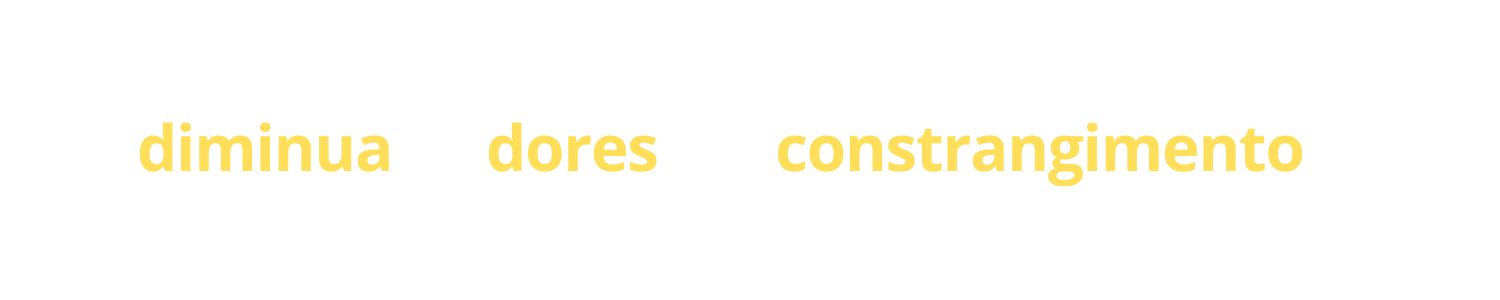
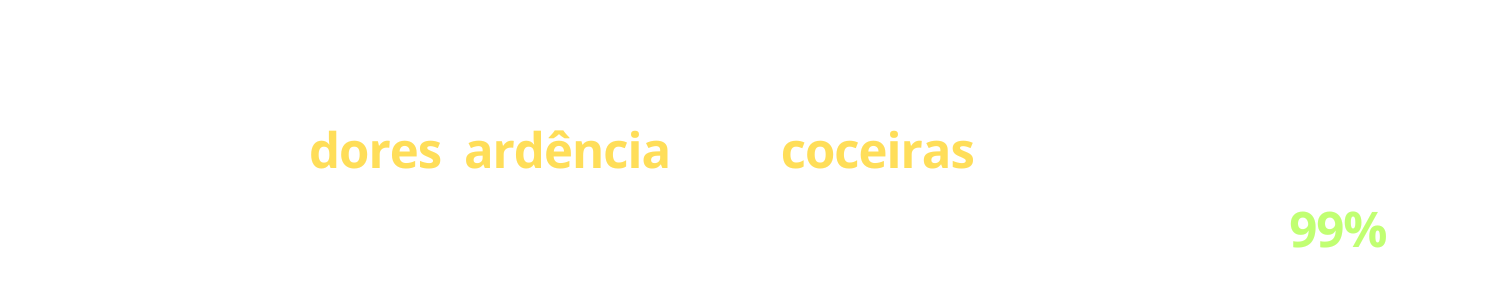
headline

Changed region(s): [[0.5213, 0.42, 0.8893, 0.63], [0.092, 0.39, 0.46, 0.57], [0.8587, 0.69, 0.9507, 0.84]]

diff --git a/src/app/home/home.js b/src/app/home/home.js
@@ -15,7 +15,7 @@ import bannerMeio3 from "@/images/meio3.png";
 import bannerMeio4 from "@/images/meio4.png";
 import garantia from "@/images/garantia-2.png";
 import logoWhite from "@/images/logo.png";
-import headline from "@/images/headline7.png";
+import headline from "@/images/headline2.png";
 import GoogleTagManager from "../components/GoogleTagManager.js";
 import Checkout from "../components/checkout.js";
 
@@ -97,17 +97,17 @@ export default function Home() {
         <div className="bg-primary py-1 items-start"></div>
         <div className="mx-auto max-w-4xl bg-white rounded-xl overflow-hidden items-start justify-center items-center content-center">
           <section className="bg-primary pt-5 pb-10 mask1 bg-[url('/images/bg-1-plain.svg')] bg-no-repeat bg-bottom bg-contain">
-            {/* {isButtonVisible && (<h2
+            <h2
               className={
                 roboto.className +
-                " text-white text-center uppercase font-black text-4xl md:text-6xl tracking-tight"
+                " text-white text-center uppercase font-black text-3xl md:text-6xl tracking-tight"
               }
             >
-              Livre-se do <br />
-              <span className="text-5xl md:text-7xl text-yellow-400">
+              Desligue o <br />
+              <span className="text-5xl md:text-3xl text-yellow-400">
                 Herpes Labial
               </span>
-            </h2>)} */}
+            </h2>
             <div className="text-white text-center md:text-xl mb-5">
               <Image alt="profil" src={headline} className="mx-auto object-cover rounded" />
             </div>
@@ -146,25 +146,25 @@ export default function Home() {
               )}
             </div>
           </section>
+          <section className=" items-start justify-center items-center content-center">
+            <div className="text-justify mx-3">
+              <div className="flex justify-center my-2"></div>
+              <p className="mb-3 text-justify">
+                Você já perdeu a conta de quantas vezes teve que lidar com o desconforto e constrangimento causado pelo Herpes Labial?
+                Apresentamos a solução que vai finalmente te ajudar a diminuir drasticamente as crises dessa condição.
+              </p>
+              <p className="mb-3 text-justify">
+                Você já se sentiu envergonhado(a) ao sair de casa com aquelas dolorosas feridas no lábio? O herpes labial pode ser extremamente incômodo e afetar sua autoestima.
+                Além disso, as crises recorrentes são extremamente dolorosas e podem te impedir de aproveitar momentos importantes da sua vida. Mas a boa notícia é que você não precisa mais conviver com essa situação!
+              </p>
+              {isButtonVisible && (<p className="mb-3 text-justify">
+                Apresentamos o "Desligue o Herpes Labial", um programa completo que vai te guiar passo a passo para reduzir em até 91% a carga viral do herpes labial e diminuir os sintomas em menos de 24 horas.
+                Com nossa técnica natural e simples, você vai finalmente ter controle sobre essa condição e poder desfrutar da vida sem preocupações.
+              </p>)}
+            </div>
+          </section>
           {isButtonVisible && (
             <>
-              <section className=" items-start justify-center items-center content-center">
-                <div className="text-justify mx-3">
-                  <div className="flex justify-center my-2"></div>
-                  <p className="mb-3 text-justify">
-                    Você já perdeu a conta de quantas vezes teve que lidar com o desconforto e constrangimento causado pelo Herpes Labial?
-                    Apresentamos a solução que vai finalmente te ajudar a diminuir drasticamente as crises dessa condição.
-                  </p>
-                  <p className="mb-3 text-justify">
-                    Você já se sentiu envergonhado(a) ao sair de casa com aquelas dolorosas feridas no lábio? O herpes labial pode ser extremamente incômodo e afetar sua autoestima.
-                    Além disso, as crises recorrentes são extremamente dolorosas e podem te impedir de aproveitar momentos importantes da sua vida. Mas a boa notícia é que você não precisa mais conviver com essa situação!
-                  </p>
-                  <p className="mb-3 text-justify">
-                    Apresentamos o "Desligue o Herpes Labial", um programa completo que vai te guiar passo a passo para reduzir em até 91% a carga viral do herpes labial e diminuir os sintomas em menos de 24 horas.
-                    Com nossa técnica natural e simples, você vai finalmente ter controle sobre essa condição e poder desfrutar da vida sem preocupações.
-                  </p>
-                </div>
-              </section>
               <section>
                 <Image src={bannerMeio1} alt="Herpes Labial" priority={true} />
               </section>
